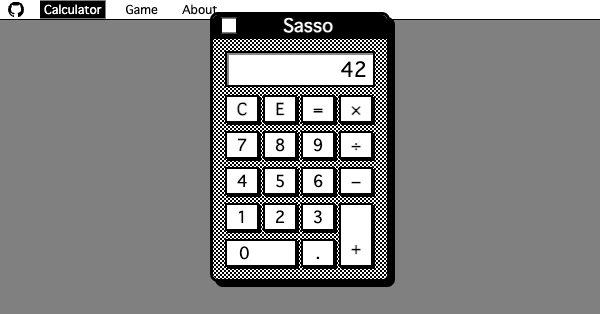
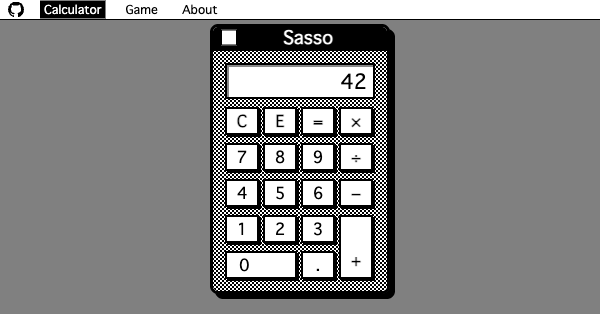
fix(layout): keep calculator window clear of the menu bar on short viewports (#29)
On viewports <=500px tall the window pinned to top:12px, but the 20px menu bar
is painted underneath it (window comes later in DOM), so the title bar overlapped
the bar (visible in landscape play and in the OG capture). Move the pinned offset
to top:24px so the window clears the 20px bar. Re-shoot og-image.png (600x314,
display 42) with the overlap gone.

Verified live at 600x314: window title bar sits below the menu bar.

Closes #29

Changed region(s): [[0.33, 0.0287, 0.66, 0.9745]]

diff --git a/src/components/Window.module.css b/src/components/Window.module.css
@@ -14,7 +14,9 @@
 
 @media (max-height: 500px) {
   .window {
-    top: 12px;
+    /* Clear the 20px menu bar (the window is painted above it in DOM order, so
+       a smaller offset lets the title bar overlap the bar on short viewports). */
+    top: 24px;
     transform: translateX(-50%);
   }
 }